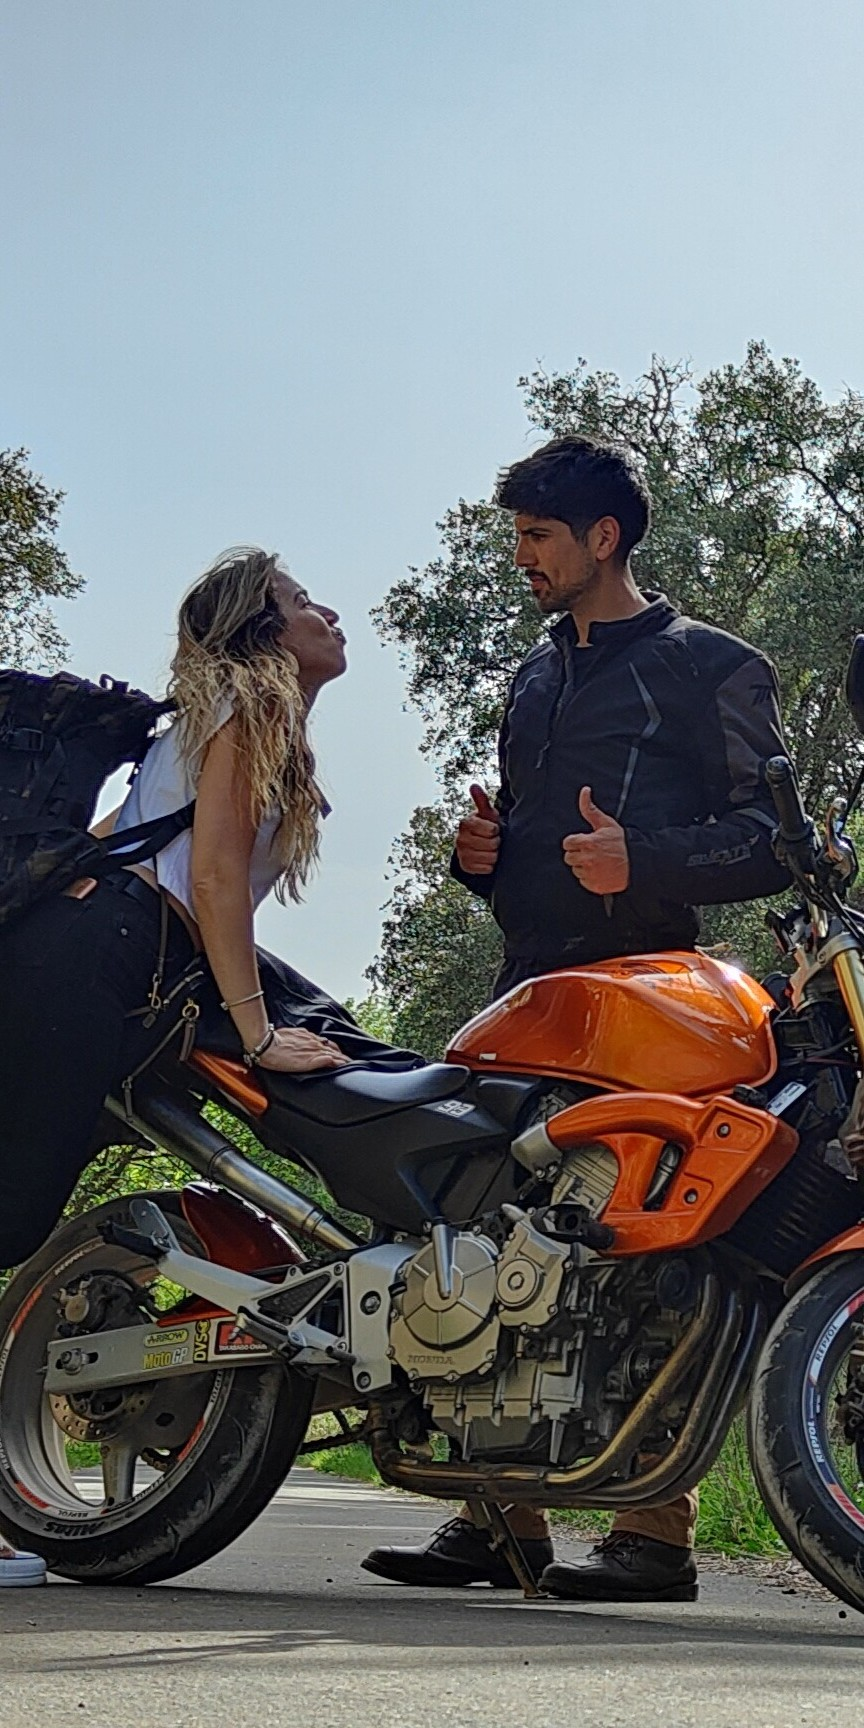
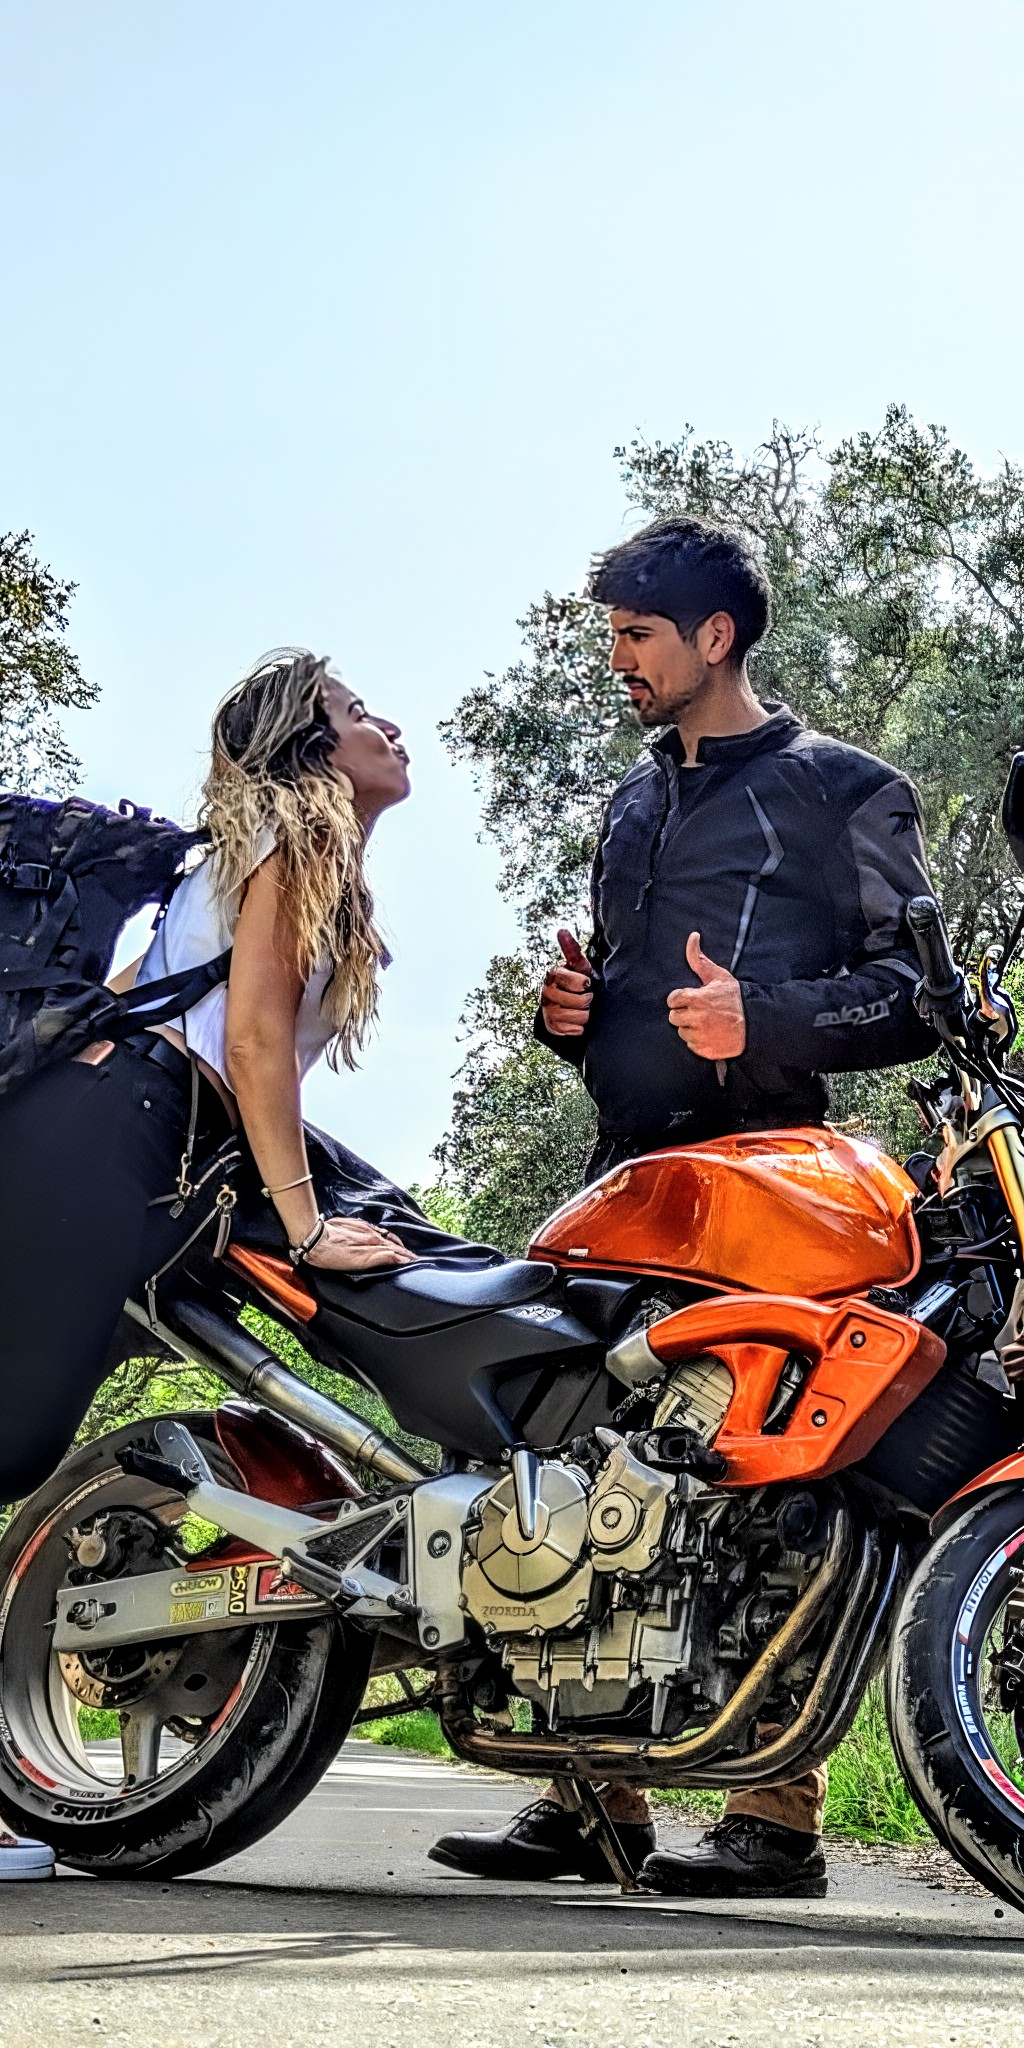
feat(header): Improved background image quality

diff --git a/src/app/components/header/header.component.html b/src/app/components/header/header.component.html
@@ -25,9 +25,9 @@
       Lidia
     </h1>
 
-    <p class="max-w-lg text-sm sm:text-base text-charcoal/80 font-serif italic mb-8 px-4 leading-relaxed">
-      "Bajo el cielo dorado de Sevilla y la sombra centenaria de los olivos, celebramos el inicio de nuestra vida
-      juntos."
+    <p class="max-w-lg text-sm sm:text-base text-white font-serif italic mb-8 px-4 leading-relaxed">
+      Bajo la luz dorada de Sevilla, nos unimos para celebrar el inicio de
+      nuestra historia juntos
     </p>
 
     <div

diff --git a/src/app/components/header/header.component.scss b/src/app/components/header/header.component.scss
@@ -14,5 +14,6 @@
     #header {
         background-image: url('/header 2.jpeg');
         background-position: center;
+        background-size: cover;
     }
 }
